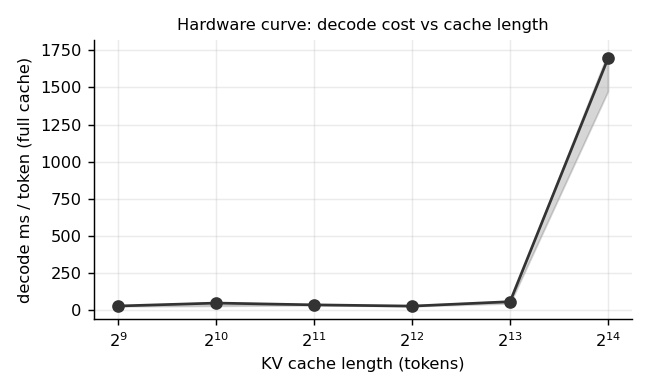
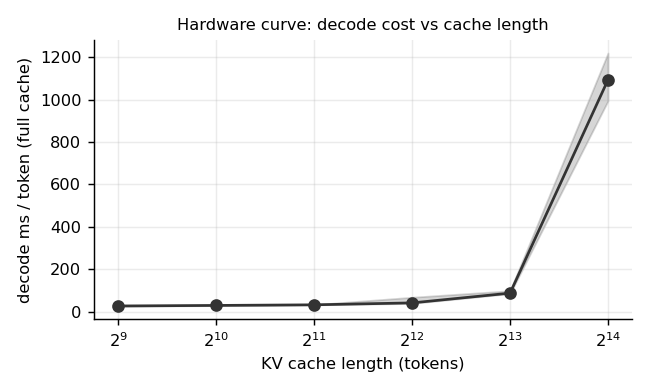
exp: benchmark v3 (post-fix) + re-measured decode curve; report/README regenerated; scripts/measure_decode_curve.py

diff --git a/scripts/measure_decode_curve.py b/scripts/measure_decode_curve.py
@@ -1,0 +1,46 @@
+#!/usr/bin/env python
+"""Re-measure the decode-vs-cache-length hardware curve and store it in a bench run.
+
+    python scripts/measure_decode_curve.py --run <bench_run_id> [--lengths 512,1024,...]
+
+Writes results.json['decode_curve'] (+ a provenance note) so the report picks it up.
+"""
+
+from __future__ import annotations
+
+import argparse
+import json
+import sys
+from datetime import datetime, timezone
+from pathlib import Path
+
+sys.path.insert(0, str(Path(__file__).resolve().parents[1]))
+from kvrl.bench.harness import decode_vs_cache_length
+from kvrl.models.hf_model import load_model
+from kvrl.utils.tracker import git_info
+
+
+def main() -> int:
+    ap = argparse.ArgumentParser()
+    ap.add_argument("--run", required=True)
+    ap.add_argument("--lengths", default="512,1024,2048,4096,8192,16384")
+    ap.add_argument("--repeats", type=int, default=3)
+    args = ap.parse_args()
+    d = Path("runs") / args.run
+    res_p = d / "results.json"
+    res = json.loads(res_p.read_text())
+    model = load_model("qwen2.5-0.5b-instruct")
+    curve = decode_vs_cache_length(model, [int(x) for x in args.lengths.split(",")], repeats=args.repeats,
+                                   log=lambda s: print(s, flush=True))
+    res["decode_curve"] = curve.to_dict(orient="records")
+    res["decode_curve_note"] = {"measured_at": datetime.now(timezone.utc).isoformat(),
+                                "method": "chunked prefill (256) + MPS pool release; scripts/measure_decode_curve.py",
+                                **git_info()}
+    curve.to_parquet(d / "decode_curve.parquet", index=False)
+    res_p.write_text(json.dumps(res, indent=2, default=str))
+    print(f"updated {res_p}")
+    return 0
+
+
+if __name__ == "__main__":
+    sys.exit(main())

diff --git a/README.md b/README.md
@@ -268,40 +268,40 @@ tokens, critical-token retention by task, and RL feature permutation importance.
 | rl | 50% | window | nll | -0.1095 | [-0.2679, +0.0369] | 58% | 26 | no |
 | rl | 50% | window | accuracy | +0.1364 | [-0.1364, +0.4091] | 27% | 22 | no |
 
-### Latency / memory — run `20260816-045836-bench-592800b64f` (Apple MPS, medians of 3 repeats)
+### Latency / memory — run `20260816-062653-bench-592800b64f` (Apple MPS, medians of 3 repeats)
 
 | context | controller | budget | prefill s | decode ms/tok | controller s | compact s | KV peak | peak alloc MB |
 |---|---|---|---|---|---|---|---|---|
-| 1024 | full | 100% | 1.48 | 40.0 | 0.000 | 0.000 | 100% | 973 |
-| 1024 | h2o | 25% | 1.73 | 55.0 | 0.005 | 0.103 | 30% | 955 |
-| 1024 | rl | 25% | 1.64 | 60.9 | 0.036 | 0.137 | 30% | 955 |
-| 1024 | window | 25% | 1.29 | 36.3 | 0.004 | 0.103 | 30% | 960 |
-| 2048 | full | 100% | 3.78 | 49.1 | 0.000 | 0.000 | 100% | 973 |
-| 2048 | h2o | 25% | 4.15 | 60.6 | 0.014 | 0.202 | 28% | 962 |
-| 2048 | rl | 25% | 4.10 | 61.4 | 0.068 | 0.160 | 28% | 962 |
-| 2048 | window | 25% | 2.82 | 42.5 | 0.008 | 0.176 | 28% | 972 |
-| 4096 | full | 100% | 6.67 | 44.9 | 0.000 | 0.000 | 100% | 992 |
-| 4096 | h2o | 25% | 8.32 | 50.9 | 0.019 | 0.212 | 26% | 973 |
-| 4096 | rl | 25% | 7.72 | 49.4 | 0.066 | 0.219 | 26% | 973 |
-| 4096 | window | 25% | 4.86 | 27.4 | 0.009 | 0.172 | 26% | 973 |
-| 8192 | full | 100% | 64.74 | 1680.2 | 0.000 | 0.000 | 100% | 1041 |
-| 8192 | h2o | 25% | 23.42 | 63.4 | 0.068 | 0.555 | 26% | 976 |
-| 8192 | rl | 25% | 23.77 | 61.7 | 0.565 | 0.535 | 26% | 976 |
-| 8192 | window | 25% | 10.71 | 32.2 | 0.025 | 0.383 | 26% | 974 |
+| 1024 | full | 100% | 1.40 | 33.0 | 0.000 | 0.000 | 100% | 973 |
+| 1024 | h2o | 25% | 1.60 | 40.1 | 0.003 | 0.077 | 30% | 955 |
+| 1024 | rl | 25% | 1.58 | 38.7 | 0.012 | 0.072 | 30% | 955 |
+| 1024 | window | 25% | 1.21 | 26.6 | 0.002 | 0.058 | 30% | 960 |
+| 2048 | full | 100% | 2.84 | 33.7 | 0.000 | 0.000 | 100% | 973 |
+| 2048 | h2o | 25% | 3.49 | 40.8 | 0.006 | 0.110 | 28% | 962 |
+| 2048 | rl | 25% | 3.43 | 44.0 | 0.025 | 0.113 | 28% | 962 |
+| 2048 | window | 25% | 2.51 | 27.8 | 0.004 | 0.103 | 28% | 972 |
+| 4096 | full | 100% | 6.70 | 48.8 | 0.000 | 0.000 | 100% | 993 |
+| 4096 | h2o | 25% | 8.27 | 48.3 | 0.018 | 0.240 | 26% | 973 |
+| 4096 | rl | 25% | 8.29 | 46.8 | 0.069 | 0.249 | 26% | 973 |
+| 4096 | window | 25% | 5.28 | 30.4 | 0.010 | 0.233 | 26% | 973 |
+| 8192 | full | 100% | 14.36 | 57.7 | 0.000 | 0.000 | 100% | 1042 |
+| 8192 | h2o | 25% | 22.95 | 57.4 | 0.062 | 0.589 | 26% | 975 |
+| 8192 | rl | 25% | 22.60 | 58.2 | 0.287 | 0.612 | 26% | 975 |
+| 8192 | window | 25% | 11.35 | 32.2 | 0.022 | 0.426 | 26% | 974 |
 
-Fitted decode cost model (pre-cliff points): 31.80 ms/token + 2.485 ms per 1K cached tokens (R² = 0.339, 5 points; excluded beyond the memory cliff: [16384]).
+Fitted decode cost model (pre-cliff points): 19.58 ms/token + 8.003 ms per 1K cached tokens (R² = 0.945, 5 points; excluded beyond the memory cliff: [16384]).
 
 
 #### Decode cost vs cache length (full cache)
 
 | cache length | decode ms/tok (median) | IQR |
 |---|---|---|
-| 512 | 28.3 | 26.7–28.9 |
-| 1024 | 48.1 | 29.1–52.7 |
-| 2048 | 36.0 | 33.7–36.7 |
-| 4096 | 27.6 | 26.7–32.7 |
-| 8192 | 57.5 | 45.9–60.0 |
-| 16384 | 1695.4 | 1475.5–1732.1 |
+| 512 | 27.8 | 26.6–28.7 |
+| 1024 | 30.3 | 29.8–30.7 |
+| 2048 | 33.2 | 33.1–34.1 |
+| 4096 | 42.3 | 39.9–68.9 |
+| 8192 | 88.2 | 86.1–99.5 |
+| 16384 | 1092.5 | 994.1–1219.1 |
 
 ### PPO training — run `20260816-032826-train-d115d477aa`
 

diff --git a/docs/results.md b/docs/results.md
@@ -87,40 +87,40 @@
 | rl | 50% | window | nll | -0.1095 | [-0.2679, +0.0369] | 58% | 26 | no |
 | rl | 50% | window | accuracy | +0.1364 | [-0.1364, +0.4091] | 27% | 22 | no |
 
-### Latency / memory — run `20260816-045836-bench-592800b64f` (Apple MPS, medians of 3 repeats)
+### Latency / memory — run `20260816-062653-bench-592800b64f` (Apple MPS, medians of 3 repeats)
 
 | context | controller | budget | prefill s | decode ms/tok | controller s | compact s | KV peak | peak alloc MB |
 |---|---|---|---|---|---|---|---|---|
-| 1024 | full | 100% | 1.48 | 40.0 | 0.000 | 0.000 | 100% | 973 |
-| 1024 | h2o | 25% | 1.73 | 55.0 | 0.005 | 0.103 | 30% | 955 |
-| 1024 | rl | 25% | 1.64 | 60.9 | 0.036 | 0.137 | 30% | 955 |
-| 1024 | window | 25% | 1.29 | 36.3 | 0.004 | 0.103 | 30% | 960 |
-| 2048 | full | 100% | 3.78 | 49.1 | 0.000 | 0.000 | 100% | 973 |
-| 2048 | h2o | 25% | 4.15 | 60.6 | 0.014 | 0.202 | 28% | 962 |
-| 2048 | rl | 25% | 4.10 | 61.4 | 0.068 | 0.160 | 28% | 962 |
-| 2048 | window | 25% | 2.82 | 42.5 | 0.008 | 0.176 | 28% | 972 |
-| 4096 | full | 100% | 6.67 | 44.9 | 0.000 | 0.000 | 100% | 992 |
-| 4096 | h2o | 25% | 8.32 | 50.9 | 0.019 | 0.212 | 26% | 973 |
-| 4096 | rl | 25% | 7.72 | 49.4 | 0.066 | 0.219 | 26% | 973 |
-| 4096 | window | 25% | 4.86 | 27.4 | 0.009 | 0.172 | 26% | 973 |
-| 8192 | full | 100% | 64.74 | 1680.2 | 0.000 | 0.000 | 100% | 1041 |
-| 8192 | h2o | 25% | 23.42 | 63.4 | 0.068 | 0.555 | 26% | 976 |
-| 8192 | rl | 25% | 23.77 | 61.7 | 0.565 | 0.535 | 26% | 976 |
-| 8192 | window | 25% | 10.71 | 32.2 | 0.025 | 0.383 | 26% | 974 |
+| 1024 | full | 100% | 1.40 | 33.0 | 0.000 | 0.000 | 100% | 973 |
+| 1024 | h2o | 25% | 1.60 | 40.1 | 0.003 | 0.077 | 30% | 955 |
+| 1024 | rl | 25% | 1.58 | 38.7 | 0.012 | 0.072 | 30% | 955 |
+| 1024 | window | 25% | 1.21 | 26.6 | 0.002 | 0.058 | 30% | 960 |
+| 2048 | full | 100% | 2.84 | 33.7 | 0.000 | 0.000 | 100% | 973 |
+| 2048 | h2o | 25% | 3.49 | 40.8 | 0.006 | 0.110 | 28% | 962 |
+| 2048 | rl | 25% | 3.43 | 44.0 | 0.025 | 0.113 | 28% | 962 |
+| 2048 | window | 25% | 2.51 | 27.8 | 0.004 | 0.103 | 28% | 972 |
+| 4096 | full | 100% | 6.70 | 48.8 | 0.000 | 0.000 | 100% | 993 |
+| 4096 | h2o | 25% | 8.27 | 48.3 | 0.018 | 0.240 | 26% | 973 |
+| 4096 | rl | 25% | 8.29 | 46.8 | 0.069 | 0.249 | 26% | 973 |
+| 4096 | window | 25% | 5.28 | 30.4 | 0.010 | 0.233 | 26% | 973 |
+| 8192 | full | 100% | 14.36 | 57.7 | 0.000 | 0.000 | 100% | 1042 |
+| 8192 | h2o | 25% | 22.95 | 57.4 | 0.062 | 0.589 | 26% | 975 |
+| 8192 | rl | 25% | 22.60 | 58.2 | 0.287 | 0.612 | 26% | 975 |
+| 8192 | window | 25% | 11.35 | 32.2 | 0.022 | 0.426 | 26% | 974 |
 
-Fitted decode cost model (pre-cliff points): 31.80 ms/token + 2.485 ms per 1K cached tokens (R² = 0.339, 5 points; excluded beyond the memory cliff: [16384]).
+Fitted decode cost model (pre-cliff points): 19.58 ms/token + 8.003 ms per 1K cached tokens (R² = 0.945, 5 points; excluded beyond the memory cliff: [16384]).
 
 
 #### Decode cost vs cache length (full cache)
 
 | cache length | decode ms/tok (median) | IQR |
 |---|---|---|
-| 512 | 28.3 | 26.7–28.9 |
-| 1024 | 48.1 | 29.1–52.7 |
-| 2048 | 36.0 | 33.7–36.7 |
-| 4096 | 27.6 | 26.7–32.7 |
-| 8192 | 57.5 | 45.9–60.0 |
-| 16384 | 1695.4 | 1475.5–1732.1 |
+| 512 | 27.8 | 26.6–28.7 |
+| 1024 | 30.3 | 29.8–30.7 |
+| 2048 | 33.2 | 33.1–34.1 |
+| 4096 | 42.3 | 39.9–68.9 |
+| 8192 | 88.2 | 86.1–99.5 |
+| 16384 | 1092.5 | 994.1–1219.1 |
 
 ### PPO training — run `20260816-032826-train-d115d477aa`
 

diff --git a/.claude/context/EXPERIMENTS.md b/.claude/context/EXPERIMENTS.md
@@ -16,3 +16,4 @@ Rules: numbers only from `runs/<id>/`; label `sim` vs `real`; record failures to
 | E-008 | 2026-08-16 | P4 | PPO v1.1: continue from v1 with λ_task=3, 40K steps (run 20260816-042218-train-47d2c15626) | (engine perf commit) | sim val: crit_retained @25% 0.252 vs v1 0.260; lost mass 0.107 vs 0.104 | negative: larger terminal task weight does not help; v1 stays primary |
 | E-009 | 2026-08-16 | P6 | Ablation features/full from scratch, 8K steps (run 20260816-052142-train-c441396d58) | (report commits) | sim val rl@25% 0.130 vs h2o 0.112 | from-scratch 8K-step ablations sit below H2O — feature ablations need the warm-start protocol or ≥40K steps; deferred |
 | E-010 | 2026-08-16 | P9 | **Long-context eval** (run 20260816-052257-eval-b8bf49f28b): needle 8K ×2, lm 8K ×1, needle 16K ×1; budgets 50/25/12.5%; full/window/h2o/snapkv/rl; 53 runs; policy trained on ≤4K | (report commits) | full acc 1.0 NLL 0.817. **rl: acc 1.0 / 0.667 / 0.0, NLL 0.835 / 0.933 / 1.332** at 50/25/12.5%; h2o 0/0/0 (1.61/1.37/1.77); snapkv 0/0/0 (1.67/1.39/1.57); window 0/0/0 (1.25/1.26/1.28). At 16K RL keeps the needle at 50% and 25% (NLL 0.013 = full). RL controller 0.3–0.5 s per 8K–16K prompt (≈1–2% of model time) | RL generalises 2–4× beyond its training length and clearly beats attention heuristics on long needles; n is small (4 prompts) |
+| E-011 | 2026-08-16 | P8/P11 | **Benchmark v3** (run 20260816-062653-bench-592800b64f; after D-010 pool release; medians of 3; decode curve re-measured with chunked prefill via scripts/measure_decode_curve.py) | (D-010 commit) | full cache prefill 1.4/2.8/6.7/14.4 s and decode 33/34/49/58 ms/tok at 1K/2K/4K/8K; window@25% 27–32 ms/tok; h2o/rl@25% 39–58 ms/tok (stats path); rl controller ≤0.29 s per 8K prompt; KV peak 26–30% at 25% budget. Curve (full cache): 28/30/33/42/88 ms/tok at 512–8K, **1092 ms/tok at 16K** (machine cliff, reproducible). Earlier bench runs (04:58, 06:03) had 8K full-cache decode 1.7–1.8 s/tok — BUG-003, superseded | canonical latency/memory numbers |
